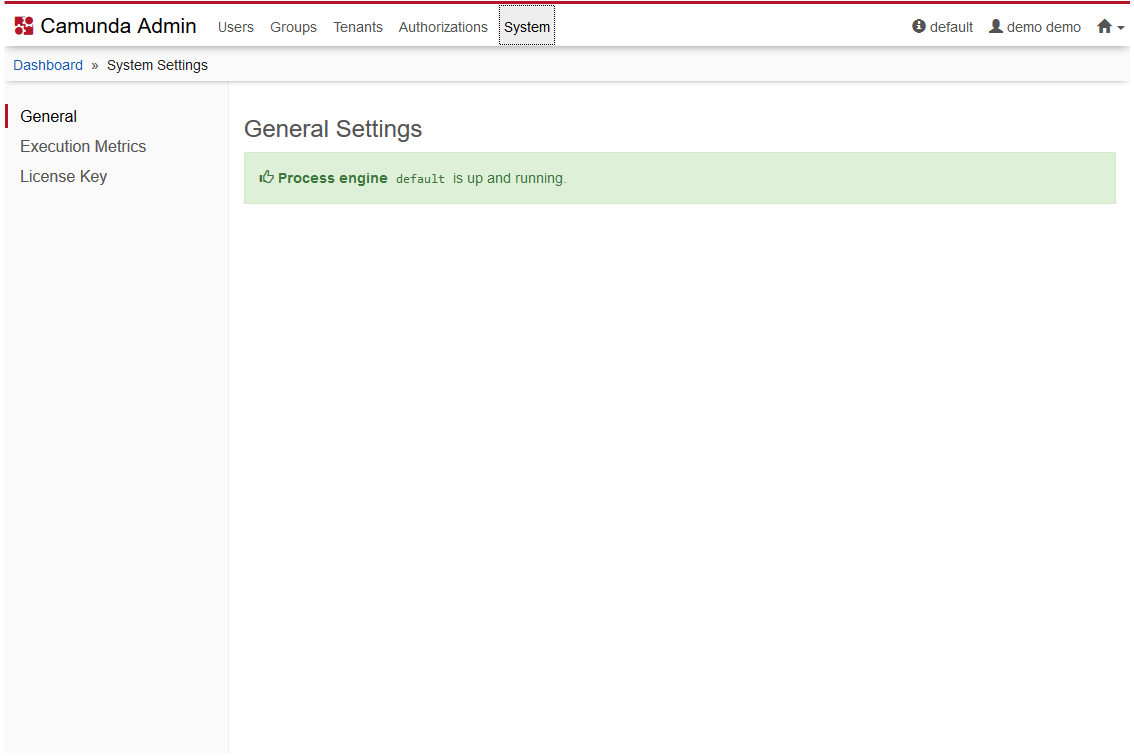
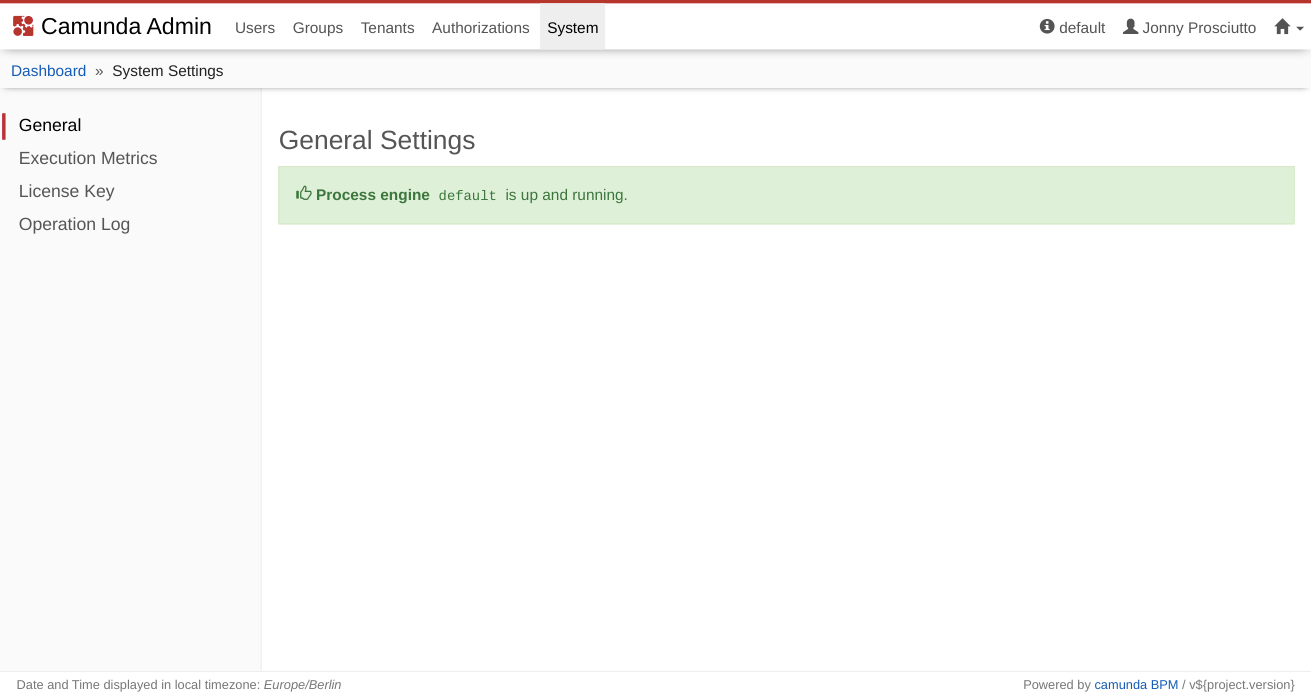
docs(op-log): improve auditing documentation
* update admin System Screenshots
* show Auditing Tab in Admin Page
* remove table of operations from cockpit page

related to CAM-11095

diff --git a/content/webapps/cockpit/auditing.md b/content/webapps/cockpit/auditing.md
@@ -48,95 +48,3 @@ For each operation, an annotation can be added to provide context. To do this, c
 {{< img src="../img/cockpit-user-operation-log.png" title="Batch View Page" >}}
 
 Every Process Instance offers a User Operations table. It displays all User Operation affecting the particular process. The table can be found in both the process definition and instance history views.
-
-# Cockpit Operation Log Entries
-
-The following table serves as an index that relates operations in the Cockpit user interface to operations in the user operation log. Whenever a listed operation is performed in Cockpit, entries for the corresponding user operations are created in the user operation log. The following list relates UI operations to the operation and entity types in the operation log. See the [user operation log documentation]({{< ref "/user-guide/process-engine/history.md#glossary-of-operations-logged-in-the-user-operation-log" >}}) for details on these types.
-
-<table class="table table-striped">
-  <tr>
-    <th>UI Operation</th>
-    <th>Operation Type</th>
-    <th>Entity Type</th>
-  </tr>
-  <tr>
-    <td><a href="{{< ref "/webapps/cockpit/bpmn/suspension.md#process-definition-suspension" >}}">Activate a Process Definition</a></td>
-    <td>ActivateProcessDefinition</td>
-    <td>ProcessDefinition</td>
-  </tr>
-  <tr>
-    <td><a href="{{< ref "/webapps/cockpit/bpmn/suspension.md#process-definition-suspension" >}}">Suspend a Process Definition</a></td>
-    <td>SuspendProcessDefinition</td>
-    <td>ProcessDefinition</td>
-  </tr>
-  <tr>
-    <td><a href="{{< ref "/webapps/cockpit/bpmn/suspension.md#process-instance-suspension" >}}">Activate a Process Instance</a></td>
-    <td>Activate</td>
-    <td>ProcessInstance</td>
-  </tr>
-  <tr>
-    <td><a href="{{< ref "/webapps/cockpit/bpmn/suspension.md#process-instance-suspension" >}}">Suspend a Process Instance</a></td>
-    <td>Suspend</td>
-    <td>ProcessInstance</td>
-  </tr>
-  <tr>
-    <td><a href="{{< ref "/webapps/cockpit/bpmn/suspension.md#job-definition-suspension" >}}">Activate a Job Definition</a></td>
-    <td>ActivateJobDefinition</td>
-    <td>JobDefinition</td>
-  </tr>
-  <tr>
-    <td><a href="{{< ref "/webapps/cockpit/bpmn/suspension.md#job-definition-suspension" >}}">Suspend a Job Definition</a></td>
-    <td>SuspendJobDefinition</td>
-    <td>JobDefinition</td>
-  </tr>
-  <tr>
-    <td><a href="{{< ref "/webapps/cockpit/bpmn/process-instance-view.md#cancel-a-process-instance" >}}">Cancel a Process Instance</a></td>
-    <td>Delete</td>
-    <td>ProcessInstance</td>
-  </tr>
-  <tr>
-    <td><a href="{{< ref "/webapps/cockpit/bpmn/process-definition-view.md#cancel-multiple-process-instances" >}}">Cancel Multiple Process Instances</a></td>
-    <td>Delete</td>
-    <td>ProcessInstance</td>
-  </tr>
-  <tr>
-    <td><a href="{{< ref "/webapps/cockpit/bpmn/process-instance-view.md#adding-variables" >}}">Add Process Instance Variables</a></td>
-    <td>SetVariable</td>
-    <td>Variable</td>
-  </tr>
-  <tr>
-    <td><a href="{{< ref "/webapps/cockpit/bpmn/process-instance-view.md#editing-variables" >}}">Edit Process Instance Variables</a></td>
-    <td>ModifyVariable</td>
-    <td>Variable</td>
-  </tr>
-  <tr>
-    <td><a href="{{< ref "/webapps/cockpit/bpmn/failed-jobs.md#retry-a-failed-job" >}}">Retry a Failed Job</a></td>
-    <td>SetJobRetries</td>
-    <td>Job</td>
-  </tr>
-  <tr>
-    <td><a href="{{< ref "/webapps/cockpit/bpmn/failed-jobs.md#batch-retry" >}}">Batch Retry of Failed Jobs</a></td>
-    <td>SetJobRetries</td>
-    <td>Job</td>
-  </tr>
-  <tr>
-    <td><a href="{{< ref "/webapps/cockpit/bpmn/process-instance-modification.md" >}}">Process Instance Modification</a></td>
-    <td>ModifyProcessInstance</td>
-    <td>ProcessInstance</td>
-  </tr>
-  <tr>
-    <td>Set Task Assignee</td>
-    <td>Assign</td>
-    <td>Task</td>
-  </tr>
-  <tr>
-    <td>Add Task Candidate Group</td>
-    <td>AddGroupLink</td>
-    <td>IdentityLink</td>
-  </tr>
-  <tr>
-    <td>Remove Task Candidate Group</td>
-    <td>DeleteGroupLink</td>
-    <td>IdentityLink</td>
-  </tr>
-</table>

diff --git a/content/webapps/admin/auditing.md b/content/webapps/admin/auditing.md
@@ -1,3 +1,15 @@
+---
+
+title: 'Auditing'
+weight: 50
+
+menu:
+  main:
+    identifier: "user-guide-admin-auditing"
+    parent: "user-guide-admin"
+
+---
+
 It is often desired to inspect which user performed which operation for auditing purposes. Admin operations are logged in the [user operation log]({{< ref "/user-guide/process-engine/history.md#user-operation-log" >}}) that is part of the process engine's history. The log allows to understand
 
 * which operation was performed
